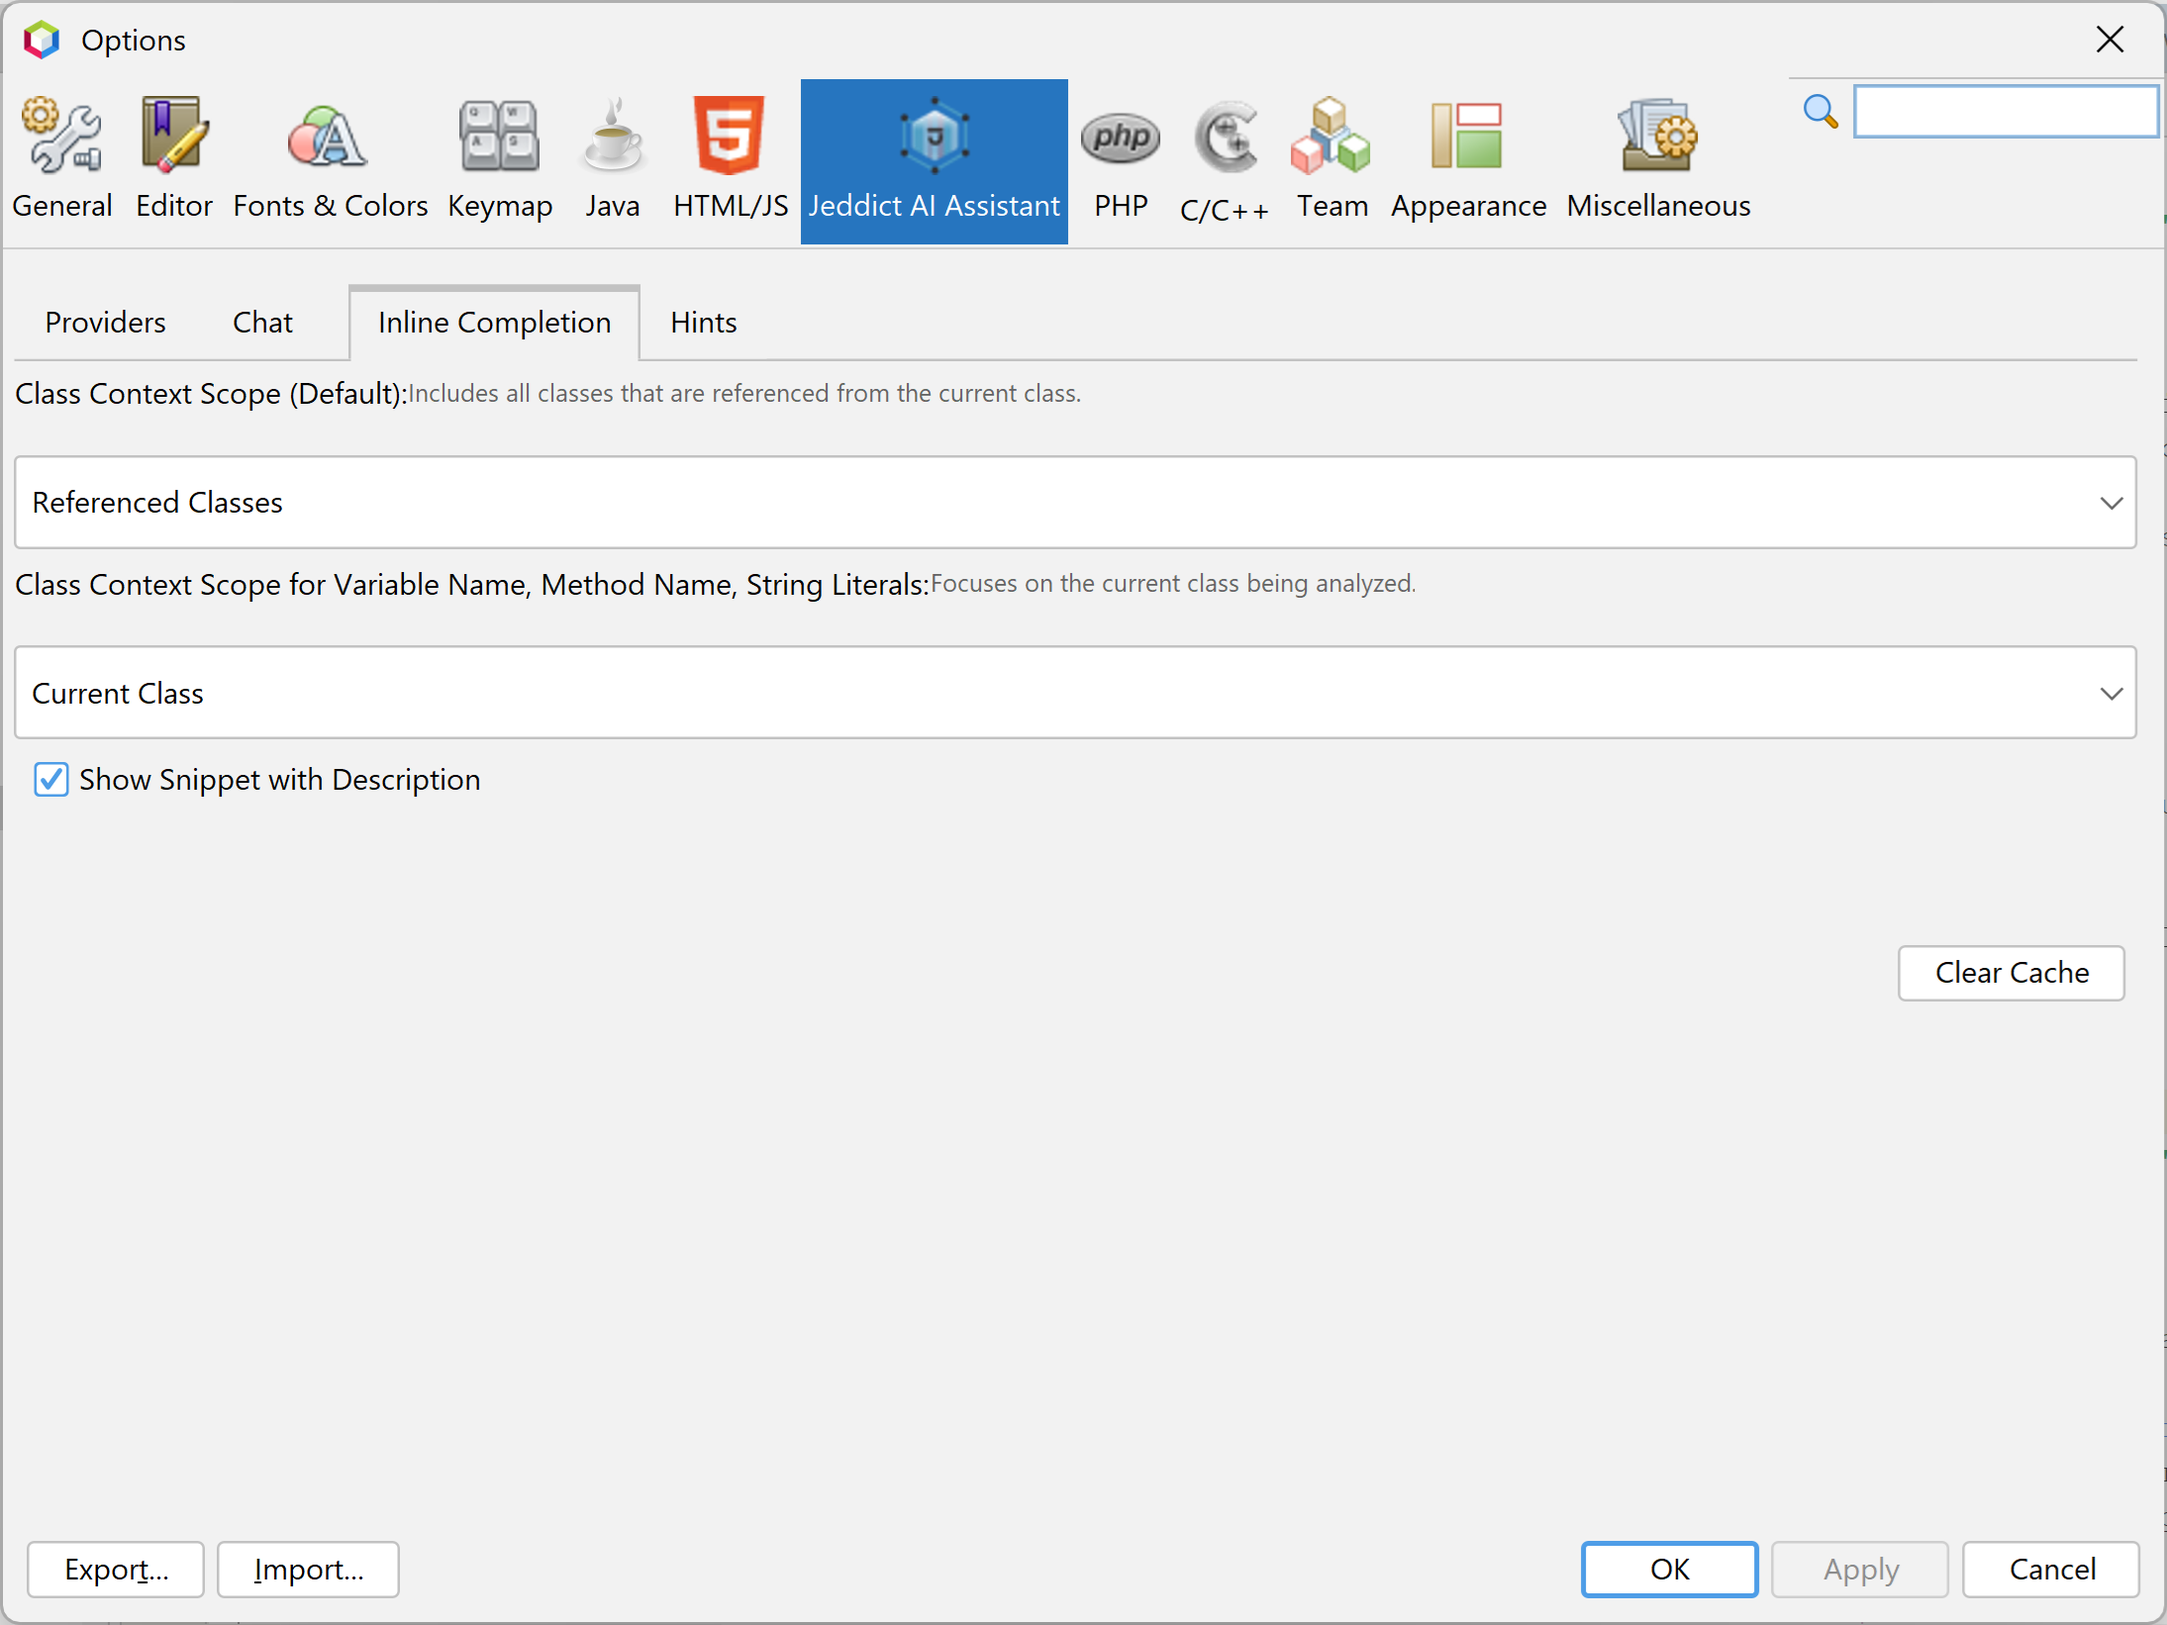
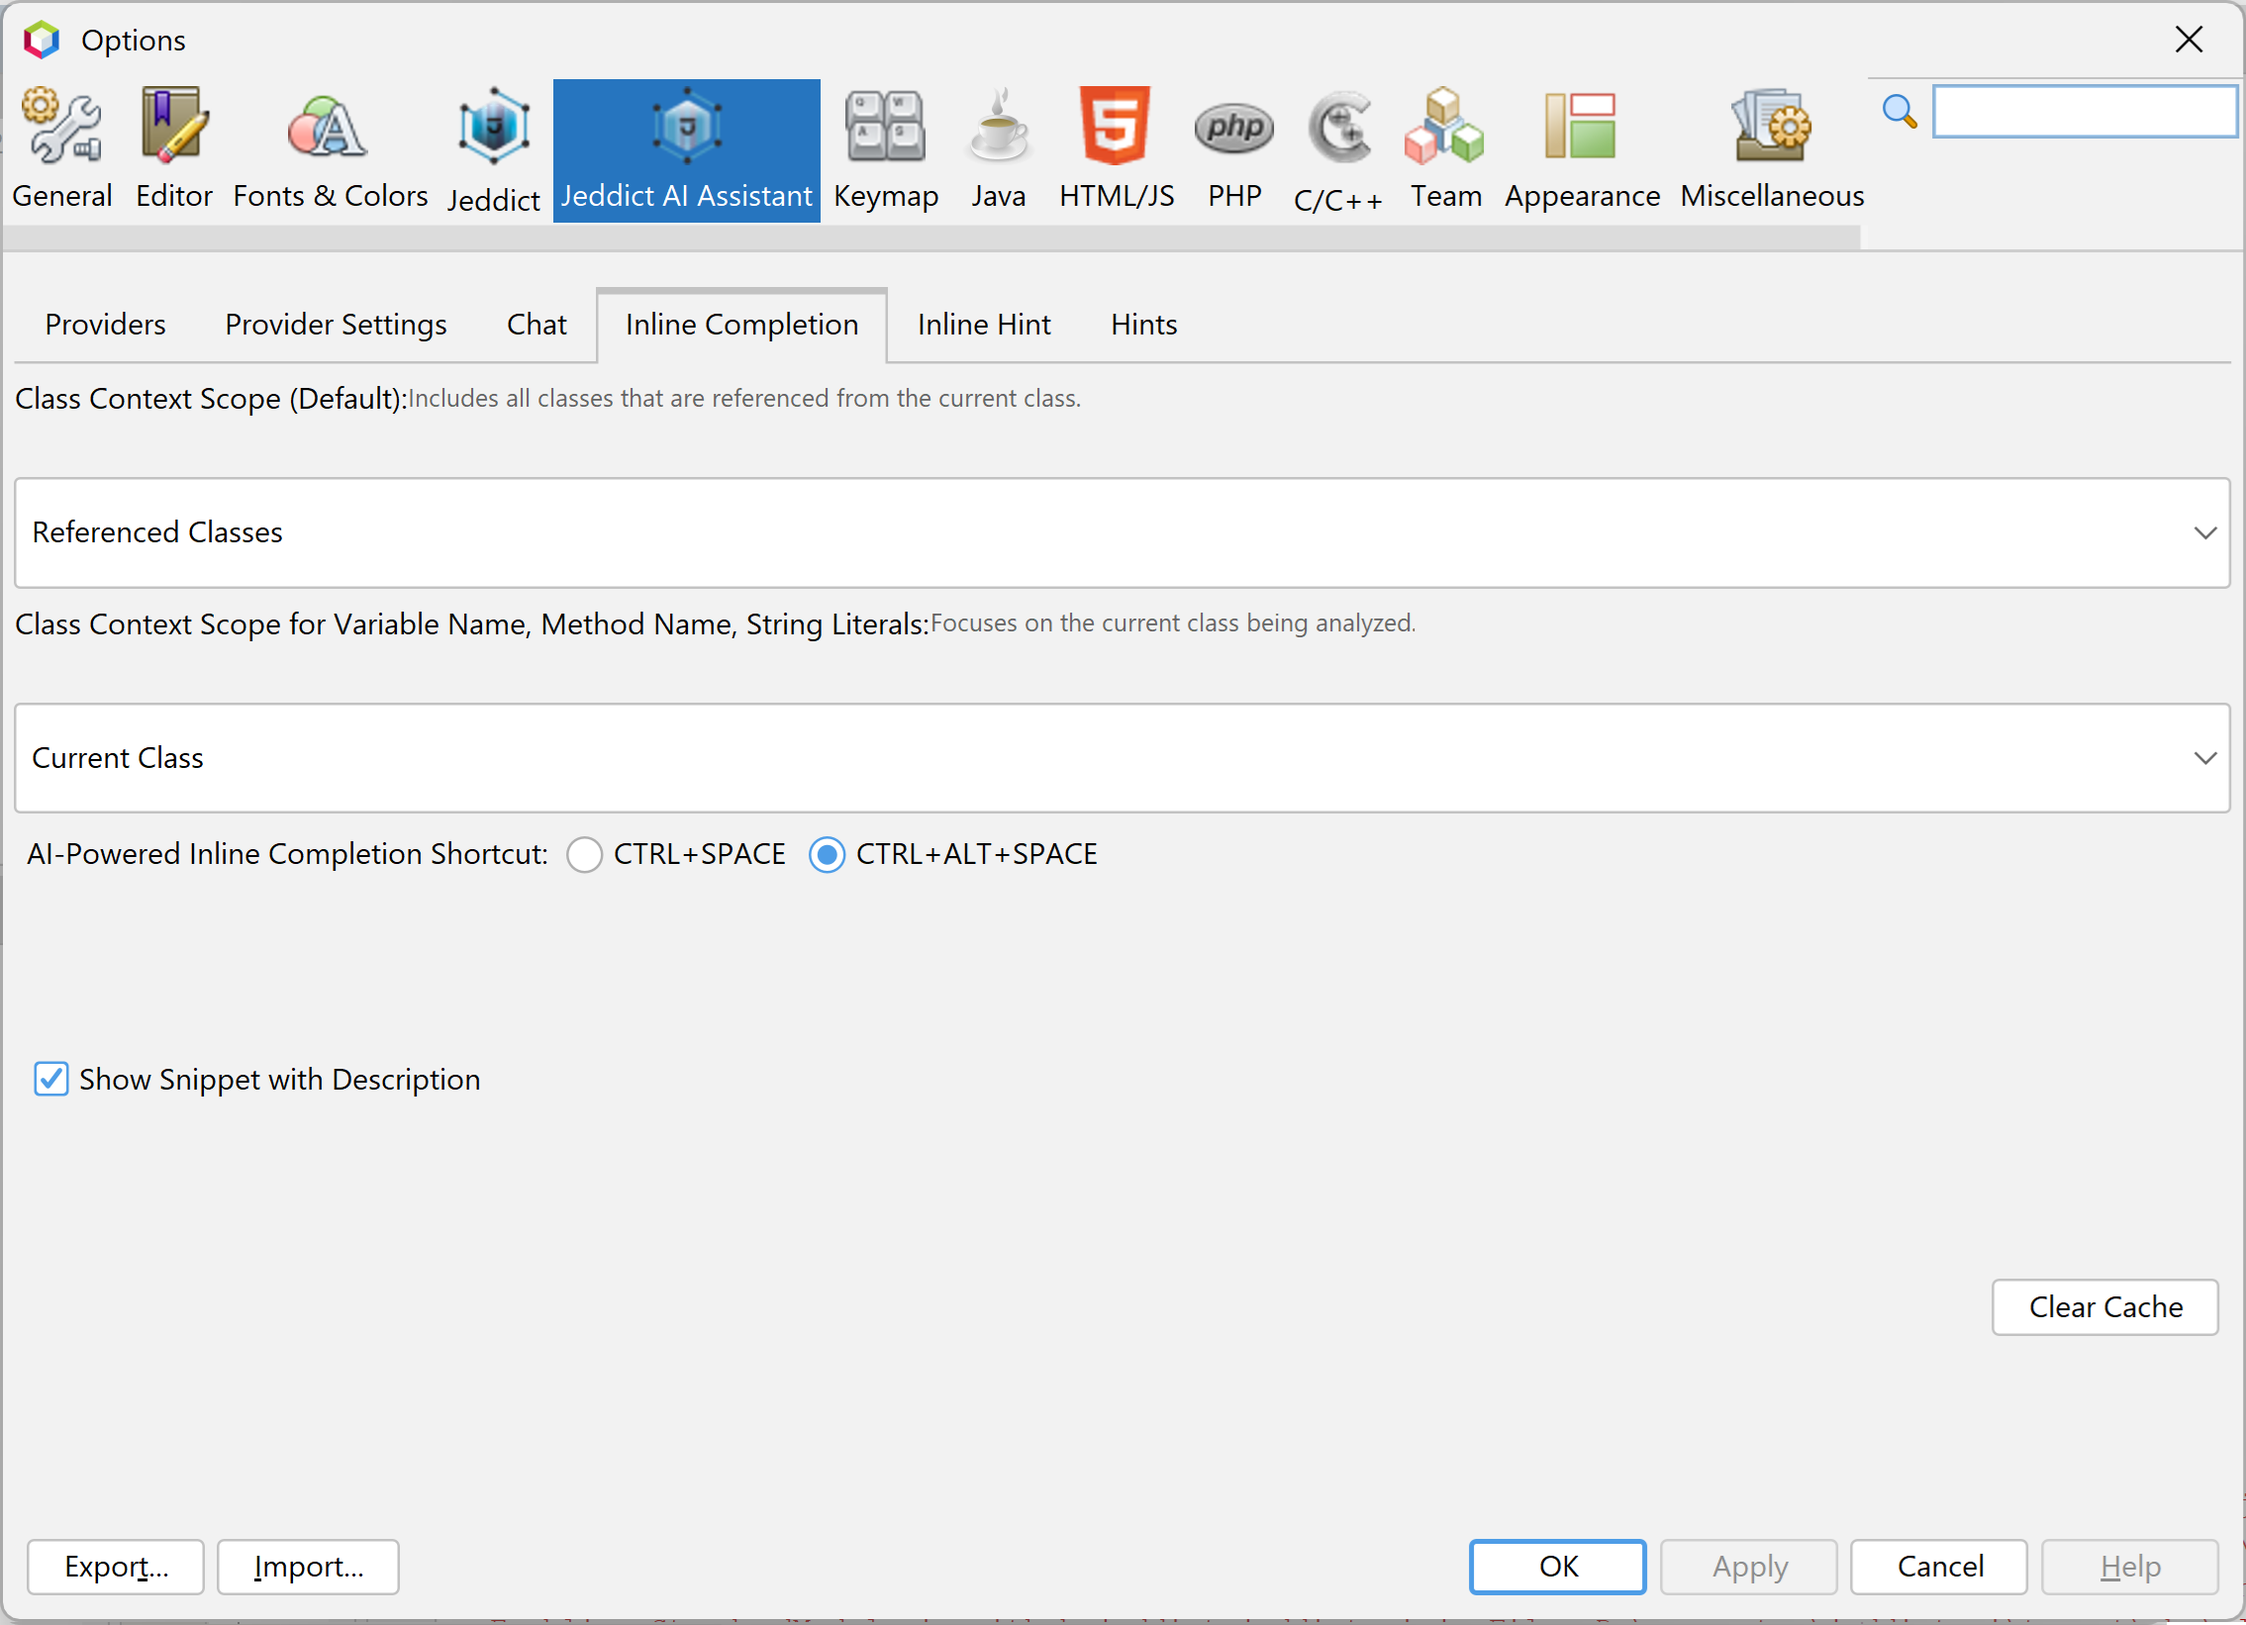
Release Jeddict v2.4

diff --git a/tutorial/AI.html b/tutorial/AI.html
@@ -31,7 +31,7 @@
     <div class="mb-4">
         <h4>Smart Code Completion</h4>
         <p>Boost productivity with AI-powered code completion, offering context-aware suggestions for completing code, renaming variables and methods, and improving log messages or comments.</p>
-        <p><strong>How to use:</strong> Press Ctrl+Space to see a list of relevant suggestions.</p>
+        <p><strong>How to use:</strong> Press Ctrl+Space or Ctrl+Alt+Space to see a list of relevant suggestions.</p>
         <img src="jeddict-ai/resource/0-SmartSuggestions.gif" alt="Smart Suggestions" class="feature-img" width="1200" />
     </div>
 
@@ -228,7 +228,6 @@
     <div class="mb-4">
         <h4>Disabling AI Assistance</h4>
         <p>If you wish to disable the Jeddict AI Assistant, navigate to <strong>Tools > Options > Editor > AI Assistance</strong> and uncheck the <strong>Activate AI Assistance</strong> checkbox.</p>
-        <p>To bypass AI assistance while it remains activated, use <code><strong>CTRL+ALT+SPACE</strong></code> instead of <code><strong>CTRL+SPACE</strong></code> for inline suggestions.</p>
     </div>
     
     <br/><br/>
